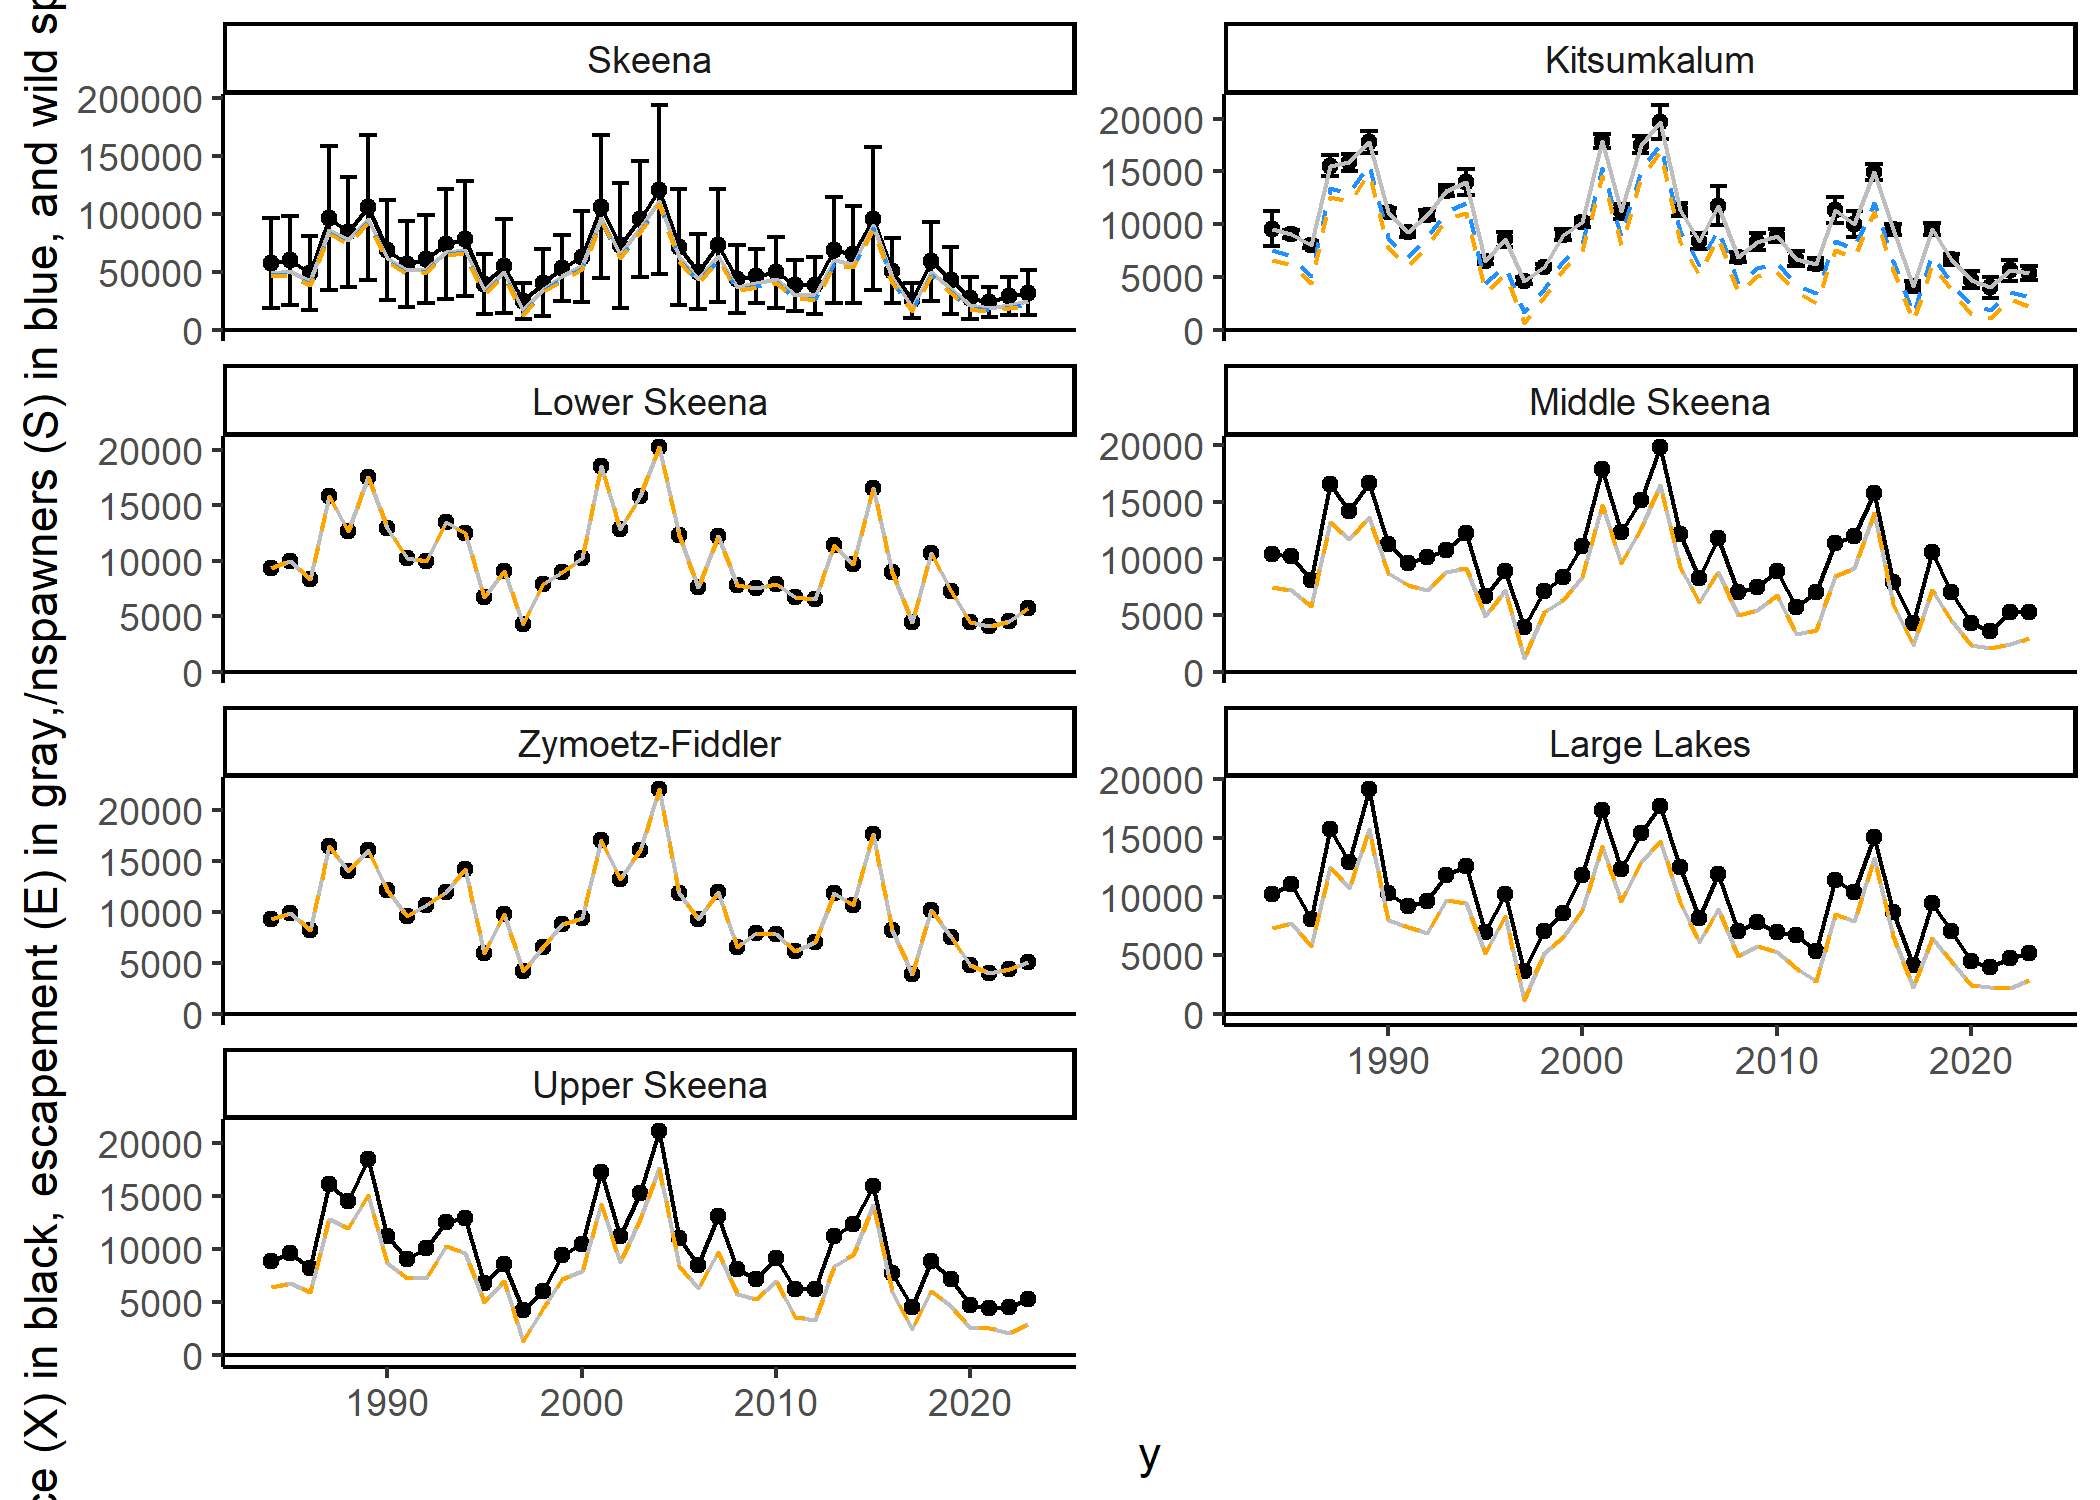
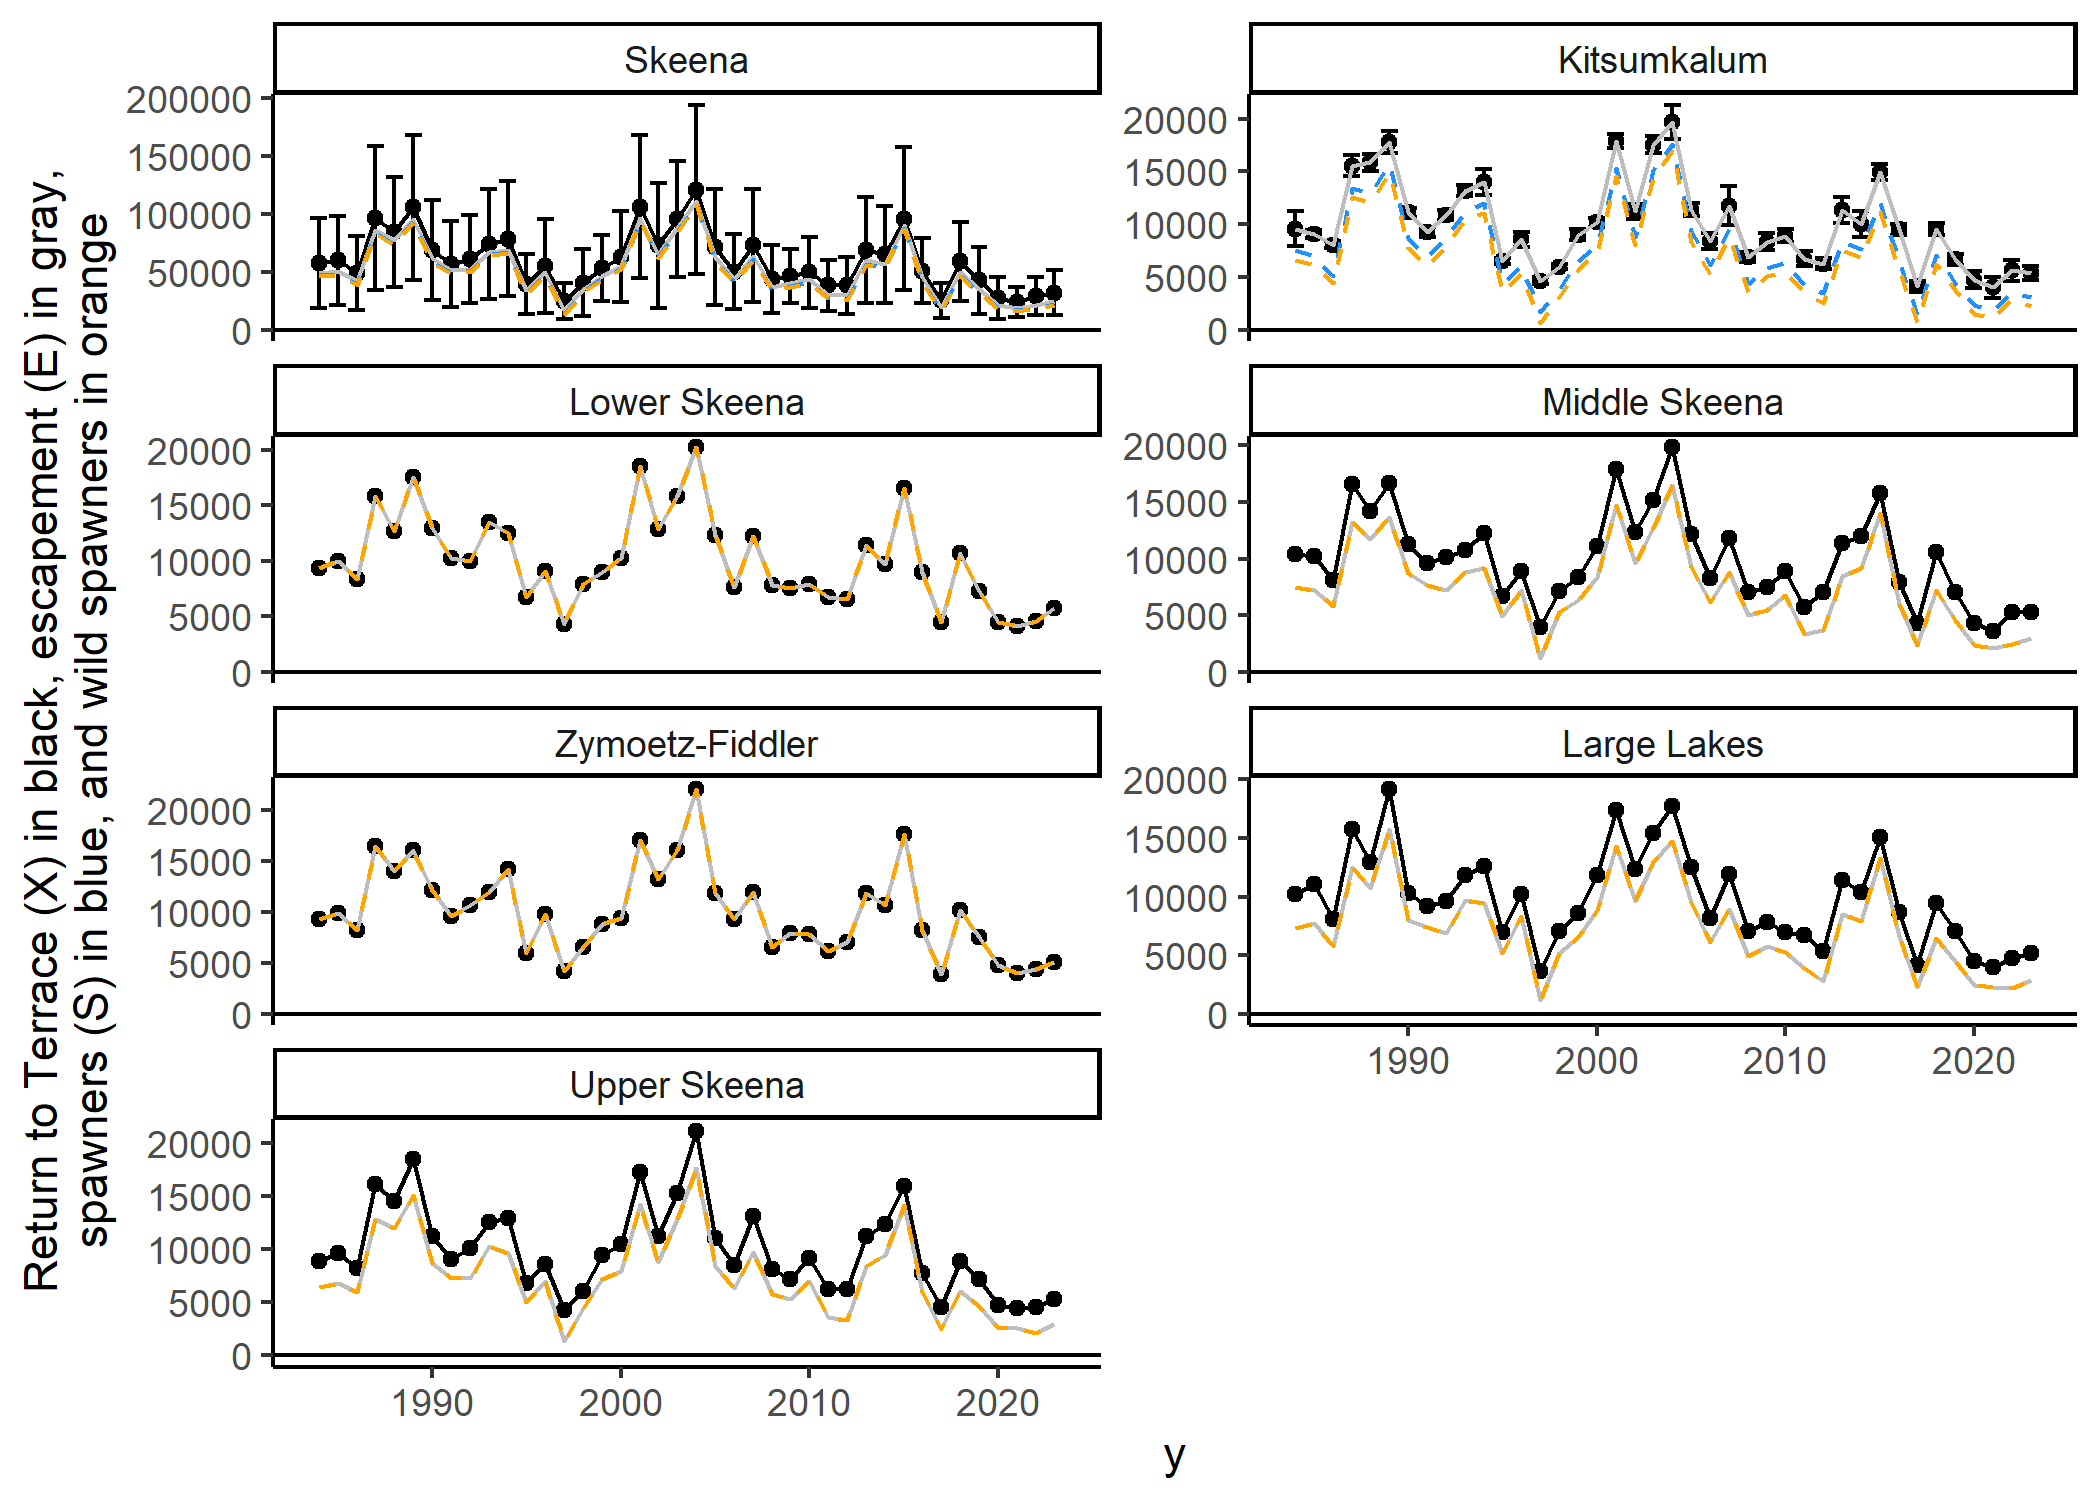
Update readme

diff --git a/README.md b/README.md
@@ -134,7 +134,7 @@ ggplot(dt, aes(y = X, x = y, group = i)) +
   geom_line(data = de, aes(y = E, x = y, group=i), colour="gray") +
   geom_line(data = ds, aes(y = S, x = y, group=i), colour="dodgerblue", linetype=2) +
   facet_wrap(~i, ncol=2, scales = "free_y") +
-  ylab("Return to Terrace (X) in black, escapement (E) in gray,/nandspawners (S) in blue") +
+  ylab("Return to Terrace (X) in black, escapement (E) in gray,\nandspawners (S) in blue") +
   geom_hline(aes(yintercept=0)) +
   theme_classic()
 ```
@@ -162,7 +162,7 @@ ggplot(dt, aes(y = X, x = y, group = i)) +
   geom_line(data = ds, aes(y = S, x = y, group=i), colour="dodgerblue", linetype=2) +
   geom_line(data = dw, aes(y = W, x = y, group=i), colour="orange", linetype=2) +
   facet_wrap(~i, ncol=2, scales = "free_y") +
-  ylab("Return to Terrace (X) in black, escapement (E) in gray,/nspawners (S) in blue, and wild spawners in orange") +
+  ylab("Return to Terrace (X) in black, escapement (E) in gray,\nspawners (S) in blue, and wild spawners in orange") +
   geom_hline(aes(yintercept=0)) +
   theme_classic()
 ```
